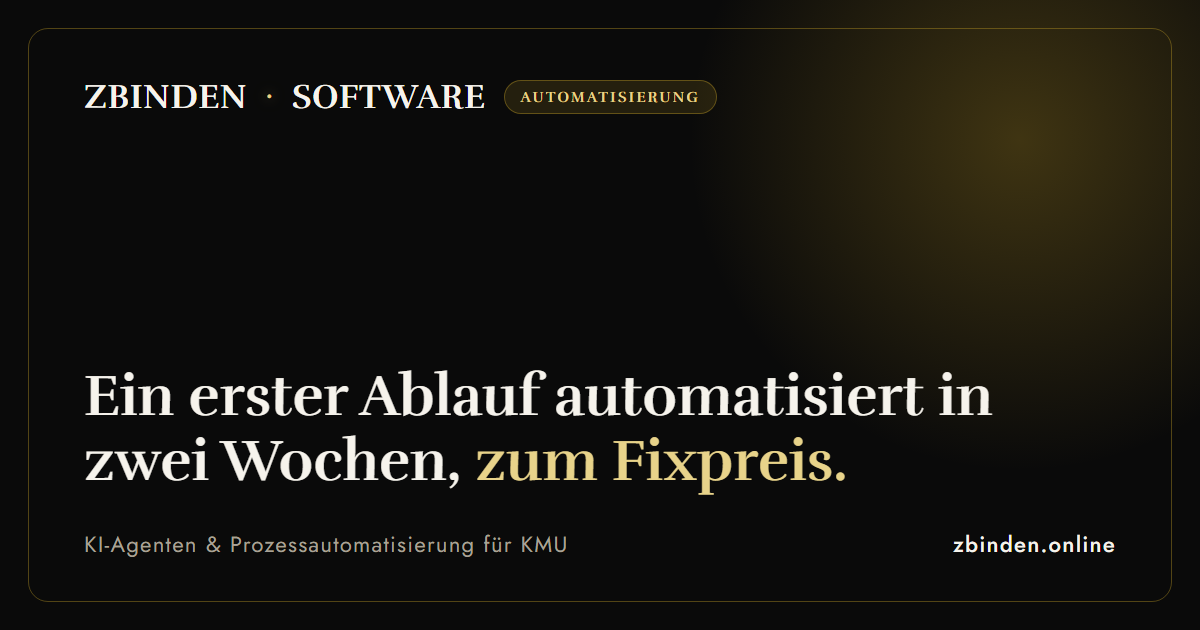
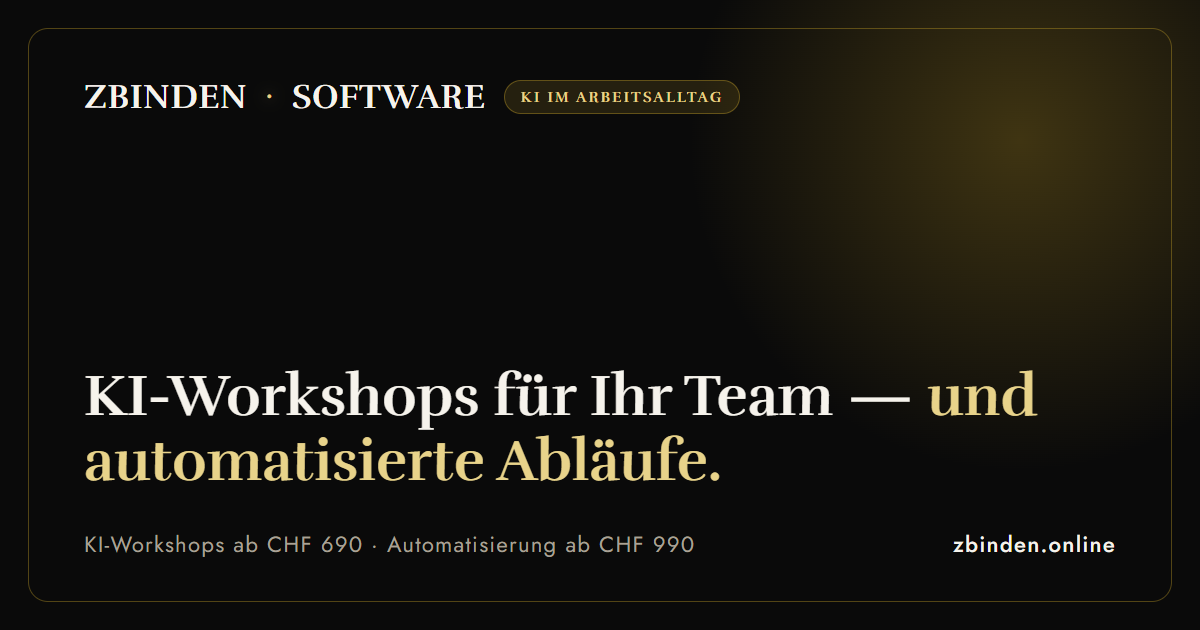
KI im Arbeitsalltag: neue Vorschaubilder (og:image) DE/FR/EN mit Workshops und Automatisierung

Changed region(s): [[0.0617, 0.573, 0.8633, 0.7841], [0.0925, 0.8444, 0.5858, 0.9048], [0.4317, 0.1206, 0.6167, 0.181]]

diff --git a/fr/ki-agenten-automatisierung/index.html b/fr/ki-agenten-automatisierung/index.html
@@ -15,7 +15,7 @@
 <meta property="og:image" content="https://www.zbinden.online/images/og/automatisierung-fr.png">
 <meta property="og:image:width" content="1200">
 <meta property="og:image:height" content="630">
-<meta property="og:image:alt" content="Zbinden Software – agents IA et automatisation des processus pour PME">
+<meta property="og:image:alt" content="Zbinden Software – L’IA au quotidien : ateliers IA et automatisation pour PME">
 <meta name="twitter:card" content="summary_large_image">
 <link rel="alternate" hreflang="de-CH" href="https://www.zbinden.online/ki-agenten-automatisierung">
 <link rel="alternate" hreflang="fr-CH" href="https://www.zbinden.online/fr/ki-agenten-automatisierung">

diff --git a/ki-agenten-automatisierung/index.html b/ki-agenten-automatisierung/index.html
@@ -15,7 +15,7 @@
 <meta property="og:image" content="https://www.zbinden.online/images/og/automatisierung-de.png">
 <meta property="og:image:width" content="1200">
 <meta property="og:image:height" content="630">
-<meta property="og:image:alt" content="Zbinden Software – KI-Agenten und Prozessautomatisierung für KMU">
+<meta property="og:image:alt" content="Zbinden Software – KI im Arbeitsalltag: KI-Workshops und Automatisierung für KMU">
 <meta name="twitter:card" content="summary_large_image">
 <link rel="alternate" hreflang="de-CH" href="https://www.zbinden.online/ki-agenten-automatisierung">
 <link rel="alternate" hreflang="fr-CH" href="https://www.zbinden.online/fr/ki-agenten-automatisierung">

diff --git a/en/ki-agenten-automatisierung/index.html b/en/ki-agenten-automatisierung/index.html
@@ -15,7 +15,7 @@
 <meta property="og:image" content="https://www.zbinden.online/images/og/automatisierung-en.png">
 <meta property="og:image:width" content="1200">
 <meta property="og:image:height" content="630">
-<meta property="og:image:alt" content="Zbinden Software – AI agents and process automation for SMEs">
+<meta property="og:image:alt" content="Zbinden Software – AI at work: AI workshops and automation for SMEs">
 <meta name="twitter:card" content="summary_large_image">
 <link rel="alternate" hreflang="de-CH" href="https://www.zbinden.online/ki-agenten-automatisierung">
 <link rel="alternate" hreflang="fr-CH" href="https://www.zbinden.online/fr/ki-agenten-automatisierung">
